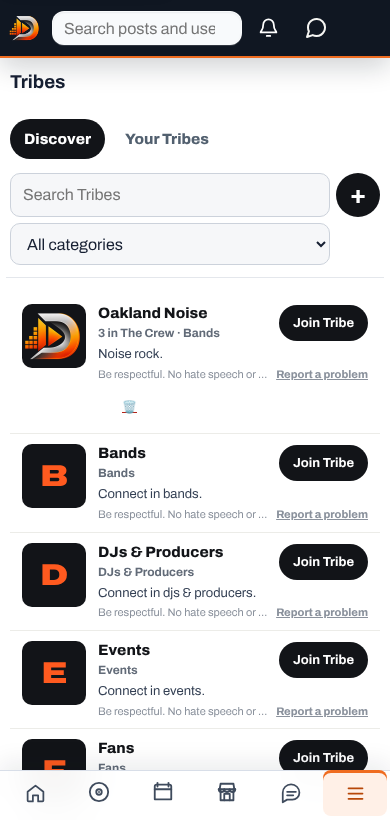
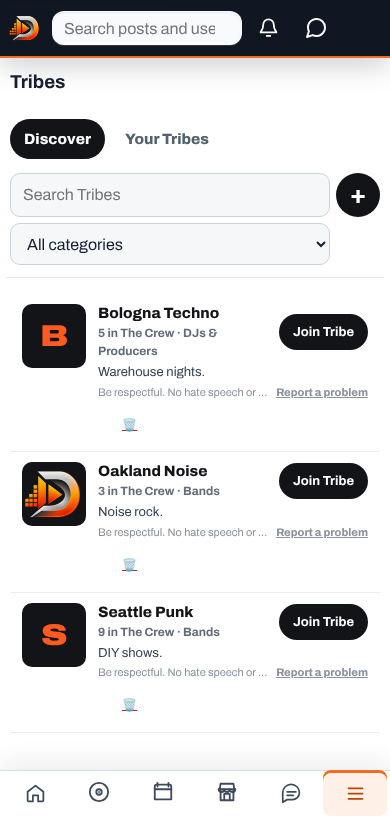
Tribes: no built-in category Tribes; empty state offers + Create Tribe (owner: create first, pick a category inside)
Claude-Session: https://claude.ai/code/session_01B3uuzMhuScQf3Rrf46EATA

diff --git a/assets/feed-enhancements.js b/assets/feed-enhancements.js
@@ -1148,7 +1148,9 @@ function renderWorkspace(name) {
     function tribeInitial(name) { return String(name || "").replace(/^[^\p{L}\p{N}]+/u, "").charAt(0).toUpperCase() || "T"; }
     function renderGroups() {
       grid.replaceChildren();
-      const defaults = categories.map(category => ({ id: `default-${legacyCategoryOrder.indexOf(category)}`, name: groupCategoryName(category), category, description: `Connect in ${(groupCategoryName(category)).toLowerCase()}.`, custom: false }));
+      // Owner 2026-11-18: categories are not Tribes. Members create Tribes (name first, then a category); the category
+      // is only a filter and a label, so no built-in "Bands" / "Fans" / ... Tribes are listed.
+      const defaults = [];
       const query = groupSearch.value.trim().toLowerCase();
       const groups = [...customGroups, ...defaults]
         .filter(group => groupView !== "joined" || Boolean(saved.GroupsJoined?.[group.id]))
@@ -1159,10 +1161,12 @@ function renderWorkspace(name) {
         const empty = document.createElement("div");
         empty.className = "groups-empty";
         const heading = document.createElement("strong");
-        heading.textContent = groupView === "joined" ? "You have not joined a Tribe yet" : "No Tribes match that search";
+        const filtered = Boolean(groupSearch.value.trim() || categoryFilter.value);
+        heading.textContent = groupView === "joined" ? "You have not joined a Tribe yet" : filtered ? "No Tribes match that search" : "No Tribes yet. Start one for your scene.";
         const copy = document.createElement("span");
-        copy.textContent = groupView === "joined" ? "Choose Discover to find communities." : "Try another name or category.";
+        copy.textContent = groupView === "joined" ? "Choose Discover to find communities." : filtered ? "Try another name or category." : "";
         empty.append(heading, copy);
+        if (!filtered && groupView !== "joined" && createToggle) { const start = document.createElement("button"); start.type = "button"; start.className = "primary groups-empty-create"; start.textContent = "+ Create Tribe"; start.addEventListener("click", () => { if (createBox.hidden) createToggle.click(); }); empty.append(start); }
         grid.appendChild(empty);
         return;
       }

diff --git a/service-worker.js b/service-worker.js
@@ -1,6 +1,6 @@
 "use strict";
 
-const CACHE = "danzstak-shell-v939";
+const CACHE = "danzstak-shell-v940";
 const SHELL = [
   "/assets/offline.js", "/assets/identity-media.js", "/assets/user-content-links.js", "/assets/user-content-links.css", "/assets/invite-sharing.js", "/assets/invite-sharing.css",
   "/assets/fonts/archivo.woff2", "/assets/fonts/jetbrains-mono.woff2", "/assets/fonts/anton.woff2", "/assets/fonts/special-elite.woff2", "/assets/fonts/work-sans.woff2", "/assets/fonts/pirata-one.woff2", "/assets/fonts/oswald.woff2", "/assets/fonts/source-serif-4.woff2", "/assets/fonts/syne.woff2", "/assets/fonts/dm-sans.woff2",

diff --git a/feed.html b/feed.html
@@ -1879,7 +1879,7 @@ document.addEventListener("visibilitychange", () => { if (document.visibilitySta
 <script src="assets/account-export.js?v=288" defer></script>
 <script src="assets/artist-hq.js?v=6" defer></script>
 <script src="assets/invite-sharing.js?v=1" defer></script>
-<script src="assets/feed-enhancements.js?v=572" defer></script>
+<script src="assets/feed-enhancements.js?v=573" defer></script>
 <script src="assets/profile-onboarding.js?v=12" defer></script>
 <script src="assets/session-activity.js?v=296" defer></script>
 <script src="assets/call-setup.js?v=2" defer></script>
